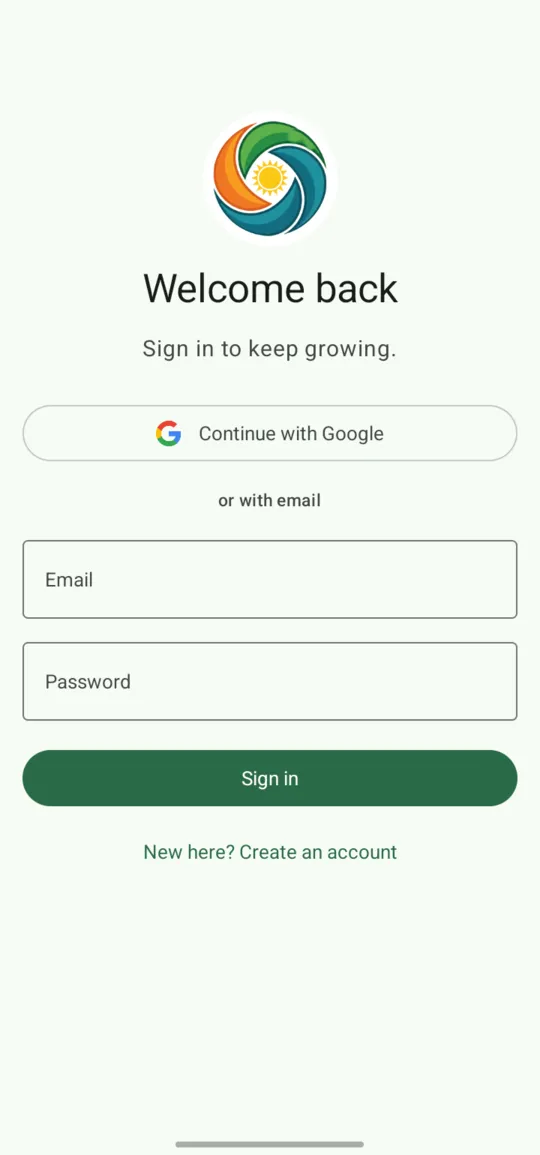
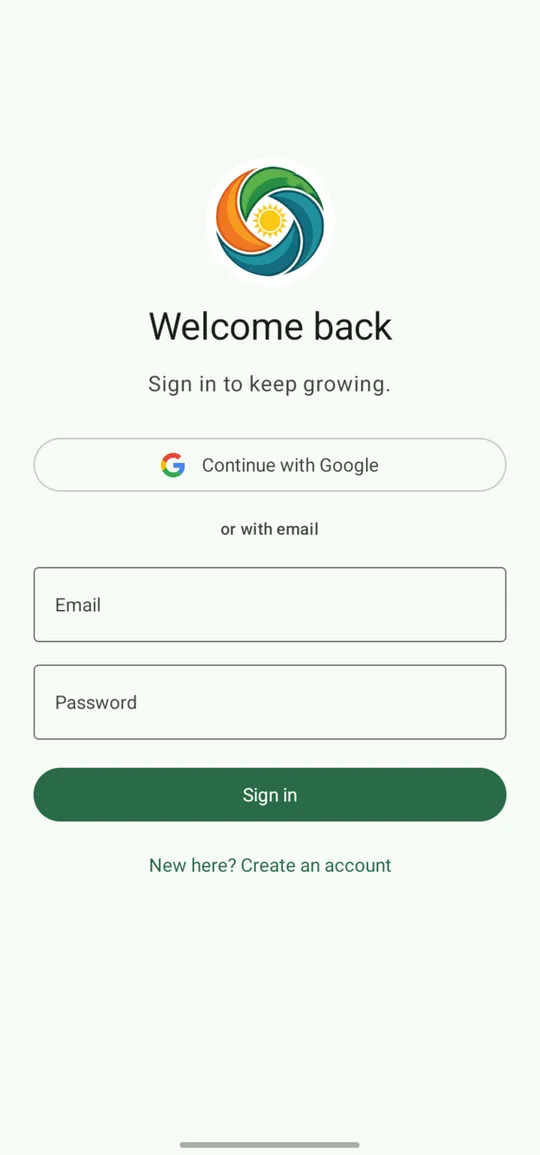
fix(web): app screenshots clear the phone frame's corners
The screenshots were cropped right under the status bar, so the app's
header (logo, Skip) sat against the frame's rounded top and was cut.
They are re-exported with the personal status bar removed, a clean top
band and side margins in the app's background colour, and the frame
gains a front-camera dot in that band.

Changed region(s): [[0.0296, 0.0935, 0.9778, 0.7792], [0.9185, 0.374, 0.9481, 0.4052], [0.0593, 0.374, 0.0889, 0.4052]]

diff --git a/client/components/system/phone-frame.tsx b/client/components/system/phone-frame.tsx
@@ -5,6 +5,10 @@ import { cn } from "@/lib/utils";
  * A real app screenshot in a phone bezel. The guide's rule: screenshots are
  * current captures of the real app and never show demo people
  * (docs/05-design-guide.md, "Show the real product").
+ *
+ * Export screenshots at 360:770 with the phone's status bar removed, a clean
+ * top band (56px at 720 wide) and 16px side margins in the app's background
+ * colour, so the header clears the frame's rounded corners.
  */
 export function PhoneFrame({
   src,
@@ -32,6 +36,12 @@ export function PhoneFrame({
           sizes="250px"
           priority={priority}
           className="object-cover object-top"
+        />
+        {/* Front camera. The screenshots are exported with a clean band above
+            the app's header for it, so no app content sits under the curve. */}
+        <span
+          aria-hidden
+          className="absolute top-[7px] left-1/2 size-[9px] -translate-x-1/2 rounded-full bg-[#0B1510]"
         />
       </div>
     </div>
